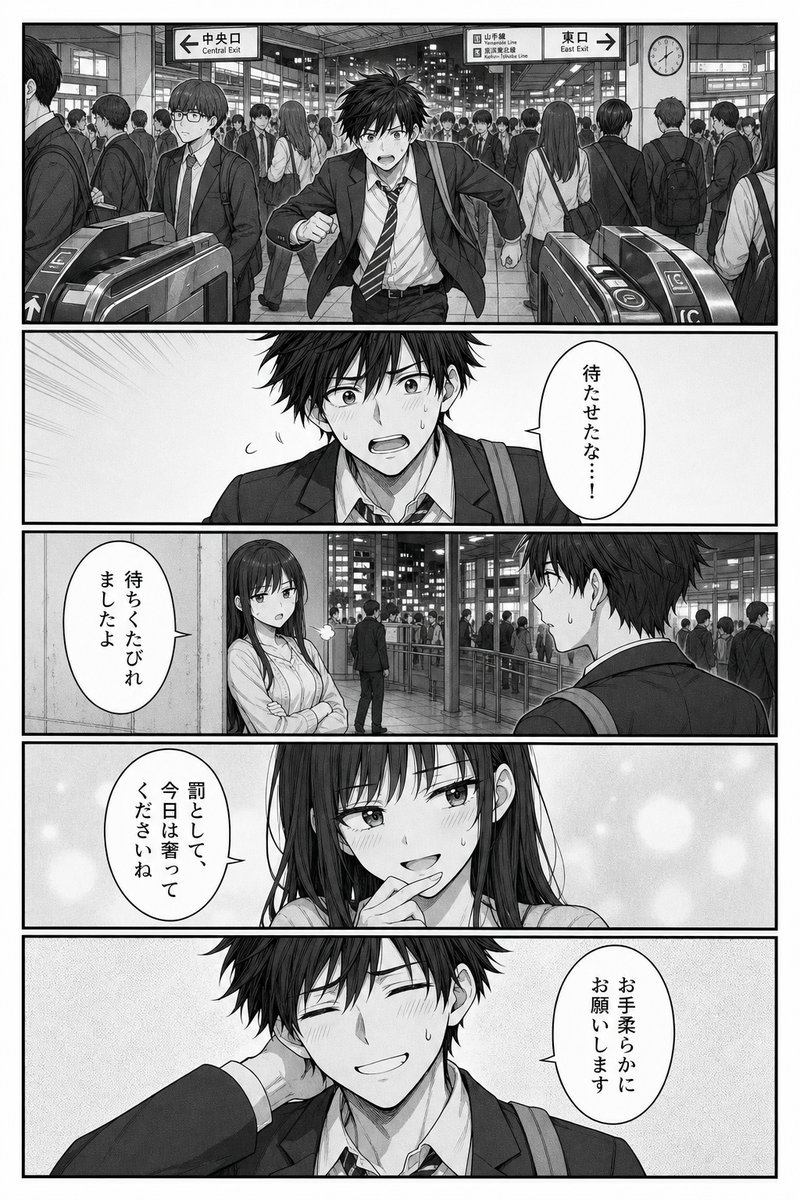
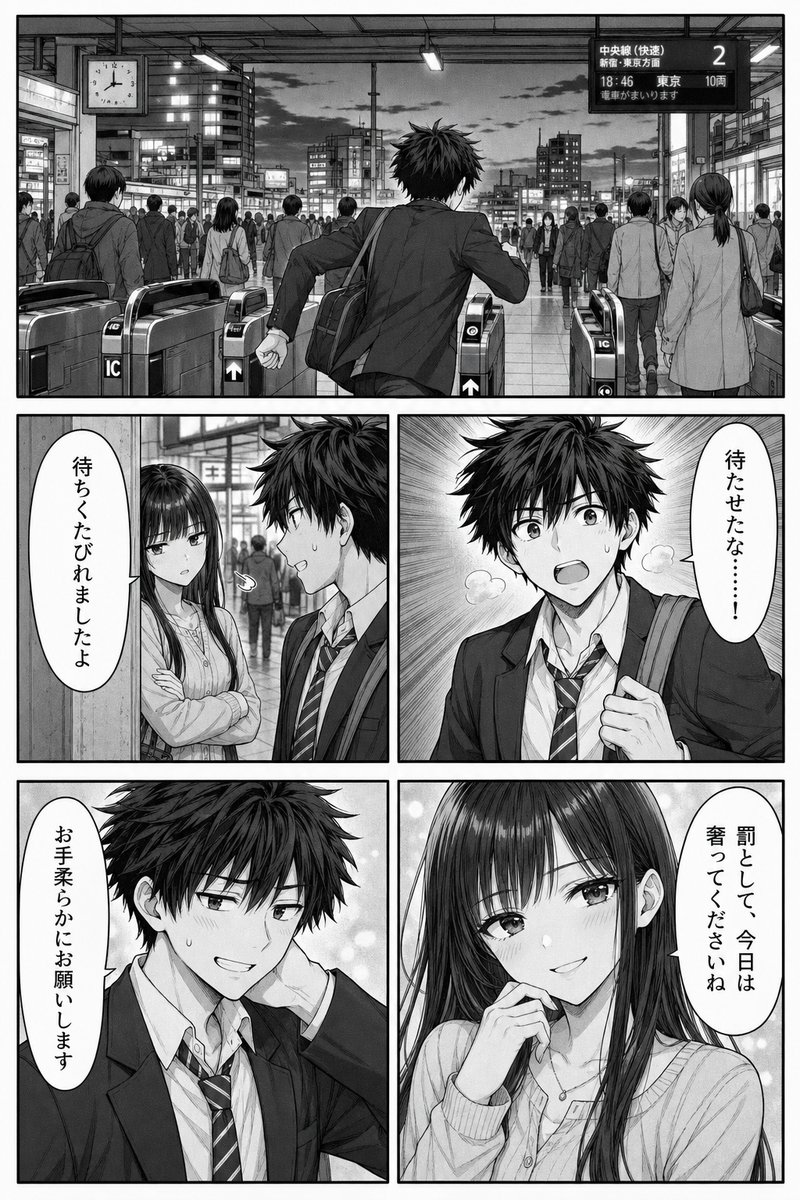
参考画像のコマ読み順を右→左・上→下に固定
日本の漫画どおり横並びは右コマが先になるよう1ページ画像を再生成し、
ADR / AI ガイド / メディアプロファイルに読み順を明記する。

diff --git a/docs/decisions/0004-manga-reference-images.md b/docs/decisions/0004-manga-reference-images.md
@@ -13,9 +13,10 @@
 
 1. **参考画像は二次ツール / ドキュメント側の成果物**とする。MesLang コアや Medo に画像必須フィールドを足さない。
 2. **生成単位はページ**（`==` セクションなど）。1ページにつき参考画像1枚。コマごとの分割画像やコマ説明は必須としない。
-3. **表示**はサンプルテキストの直下に、生成した1枚を置く。人がテキストと画像を見比べれば足りる。
-4. 画像はリポジトリ上 `examples/manga/refs/` に置き、仕様書からは相対リンクする。再生成してよい（確定ネームではない）。
-5. 将来のビューアや AI ネーム起こしも同じ慣習に従う: 原稿はテキスト、参考画像はページ単位で下（または横）に並べる。
+3. **コマの読み順は日本の漫画どおり** — 右→左、上→下。横並びコマでは右が先（`%` の若い番号）。吹き出しは縦書きを基本とする。
+4. **表示**はサンプルテキストの直下に、生成した1枚を置く。人がテキストと画像を見比べれば足りる。
+5. 画像はリポジトリ上 `examples/manga/refs/` に置き、仕様書からは相対リンクする。再生成してよい（確定ネームではない）。
+6. 将来のビューアや AI ネーム起こしも同じ慣習に従う: 原稿はテキスト、参考画像はページ単位で下（または横）に並べる。
 
 ## 結果
 

diff --git a/docs/spec/04-ai-reading.md b/docs/spec/04-ai-reading.md
@@ -52,6 +52,7 @@ MesLang はパーサだけでなく、ネーム生成・字コンテ起こし・
 ```
 次の MesLang（profile: manga）を、== セクション（ページ）ごとに白黒漫画ネーム風の1枚絵として生成する。
 1ページ＝1画像。コマ割り・吹き出し・表情は % ^ # @ とセリフから読み取る。
+コマの読み順は日本の漫画どおり右→左、上→下（横並びなら右コマが先）。吹き出し内は縦書き。
 画像は原稿に埋め込まず、サンプルテキストの直下に参考として置く（人がテキストと見比べる用）。
 ```
 

diff --git a/docs/spec/03-media-profiles.md b/docs/spec/03-media-profiles.md
@@ -88,7 +88,7 @@ $雑踏（小さく）
 - セリフのないコマも合法（`%` と `#` / `^` だけ）
 - ページ区切りは `==` セクションを推奨
 - 吹き出し種別が必要なら `@名前 :吹き出し 心の声` など属性で
-- **参考画像** は MesLang 本文に埋め込まない。サンプル直下にページ単位で1枚置く
+- **参考画像** は MesLang 本文に埋め込まない。サンプル直下にページ単位で1枚置く（読み順は右→左・上→下）
 
 ## profile: anime（優先度 2）
 
